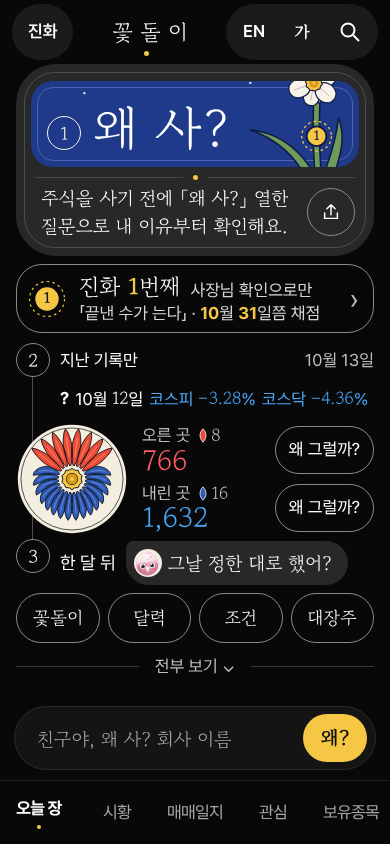
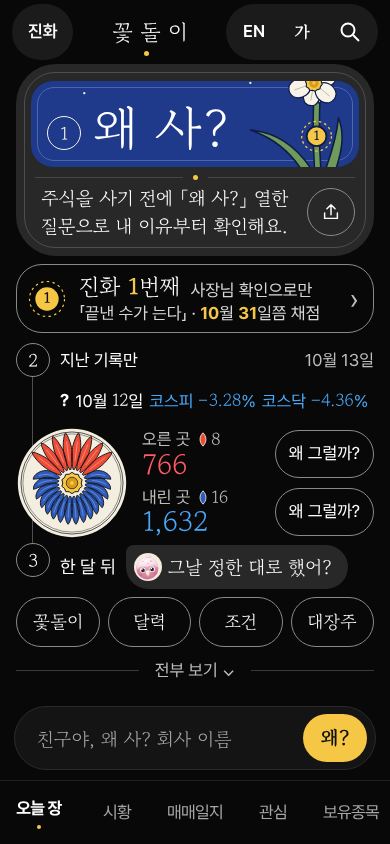
자연의 섭리 석 장 — 그리는 중 사본
Claude-Session: https://claude.ai/code/session_01NCpyR4ELc71hqitZJpUS2Z

Changed region(s): [[0.0308, 0.4621, 0.9538, 0.8009]]

diff --git a/docs/design/kakao-2026-10-19/mock/n3.html b/docs/design/kakao-2026-10-19/mock/n3.html
@@ -300,6 +300,8 @@ button,input{font:inherit;color:inherit;background:none;border:0}
 .gdr{margin-top:6px}
 .gdr a{min-height:48px}
 .all summary{min-height:48px}
+
+.river{column-gap:4px}
 </style>
 </head>
 <body>
@@ -317,7 +319,7 @@ button,input{font:inherit;color:inherit;background:none;border:0}
   <section class="plate" data-w="ess">
     <div class="frame">
       <div class="head">
-        <svg class="print" viewBox="0 0 320 112" preserveAspectRatio="xMaxYMax slice" aria-hidden="true"><defs>
+        <svg class="print" viewBox="0 0 320 112" preserveAspectRatio="xMaxYMax meet" aria-hidden="true"><defs>
 <g id="g3-bloom"><g fill="#F7F3E8" stroke="#0F1B45" stroke-width="1.3" stroke-linejoin="round"><path d="M0 -4 C 8.6 -5.6 11.6 -16 5.6 -23 Q 0 -26.8 -5.6 -23 C -11.6 -16 -8.6 -5.6 0 -4 Z" transform="rotate(60)"/><path d="M0 -4 C 8.6 -5.6 11.6 -16 5.6 -23 Q 0 -26.8 -5.6 -23 C -11.6 -16 -8.6 -5.6 0 -4 Z" transform="rotate(180)"/><path d="M0 -4 C 8.6 -5.6 11.6 -16 5.6 -23 Q 0 -26.8 -5.6 -23 C -11.6 -16 -8.6 -5.6 0 -4 Z" transform="rotate(300)"/><path d="M0 -4 C 10 -6 13.5 -18 6.5 -26 Q 0 -30.5 -6.5 -26 C -13.5 -18 -10 -6 0 -4 Z" transform="rotate(0)"/><path d="M0 -4 C 10 -6 13.5 -18 6.5 -26 Q 0 -30.5 -6.5 -26 C -13.5 -18 -10 -6 0 -4 Z" transform="rotate(120)"/><path d="M0 -4 C 10 -6 13.5 -18 6.5 -26 Q 0 -30.5 -6.5 -26 C -13.5 -18 -10 -6 0 -4 Z" transform="rotate(240)"/></g><g stroke="#BDB49C" stroke-width=".9" stroke-linecap="round"><path d="M0 -9 L0 -22" transform="rotate(0)"/><path d="M0 -9 L0 -19" transform="rotate(60)"/><path d="M0 -9 L0 -22" transform="rotate(120)"/><path d="M0 -9 L0 -19" transform="rotate(180)"/><path d="M0 -9 L0 -22" transform="rotate(240)"/><path d="M0 -9 L0 -19" transform="rotate(300)"/></g><path d="M9.20 0.00 L7.70 2.50 L7.44 5.41 L4.76 6.55 L2.84 8.75 L0.00 8.10 L-2.84 8.75 L-4.76 6.55 L-7.44 5.41 L-7.70 2.50 L-9.20 0.00 L-7.70 -2.50 L-7.44 -5.41 L-4.76 -6.55 L-2.84 -8.75 L-0.00 -8.10 L2.84 -8.75 L4.76 -6.55 L7.44 -5.41 L7.70 -2.50Z" fill="#F6C744" stroke="#0F1B45" stroke-width="1.2" stroke-linejoin="round"/><circle r="5.2" fill="#D99A1C"/><circle r="1.8" fill="#F6C744"/></g>
 <g id="g3-side"><g transform="scale(.56 1)"><g fill="#F7F3E8" stroke="#0F1B45" stroke-width="1.3" stroke-linejoin="round"><path d="M0 -4 C 8.6 -5.6 11.6 -16 5.6 -23 Q 0 -26.8 -5.6 -23 C -11.6 -16 -8.6 -5.6 0 -4 Z" transform="rotate(60)"/><path d="M0 -4 C 8.6 -5.6 11.6 -16 5.6 -23 Q 0 -26.8 -5.6 -23 C -11.6 -16 -8.6 -5.6 0 -4 Z" transform="rotate(180)"/><path d="M0 -4 C 8.6 -5.6 11.6 -16 5.6 -23 Q 0 -26.8 -5.6 -23 C -11.6 -16 -8.6 -5.6 0 -4 Z" transform="rotate(300)"/><path d="M0 -4 C 10 -6 13.5 -18 6.5 -26 Q 0 -30.5 -6.5 -26 C -13.5 -18 -10 -6 0 -4 Z" transform="rotate(0)"/><path d="M0 -4 C 10 -6 13.5 -18 6.5 -26 Q 0 -30.5 -6.5 -26 C -13.5 -18 -10 -6 0 -4 Z" transform="rotate(120)"/><path d="M0 -4 C 10 -6 13.5 -18 6.5 -26 Q 0 -30.5 -6.5 -26 C -13.5 -18 -10 -6 0 -4 Z" transform="rotate(240)"/></g><g stroke="#BDB49C" stroke-width=".9" stroke-linecap="round"><path d="M0 -9 L0 -22" transform="rotate(0)"/><path d="M0 -9 L0 -19" transform="rotate(60)"/><path d="M0 -9 L0 -22" transform="rotate(120)"/><path d="M0 -9 L0 -19" transform="rotate(180)"/><path d="M0 -9 L0 -22" transform="rotate(240)"/><path d="M0 -9 L0 -19" transform="rotate(300)"/></g></g><path d="M-1 -5.6 L-13 -8.6 Q-15.4 -9.4 -16 -7 Q-17.6 0 -16 7 Q-15.4 9.4 -13 8.6 L-1 5.6 Z" fill="#F6C744" stroke="#0F1B45" stroke-width="1.2" stroke-linejoin="round"/><ellipse cx="-15.8" cy="0" rx="2.4" ry="8.4" fill="#D99A1C" stroke="#0F1B45" stroke-width="1.1"/></g>
 </defs>
@@ -355,7 +357,8 @@ button,input{font:inherit;color:inherit;background:none;border:0}
           <svg class="streams" viewBox="0 0 120 116" preserveAspectRatio="none" aria-hidden="true">
 <!-- 달 하나 · 별 둘 — 고흐의 밤(크림 평면) -->
 <path d="M14 6 A 9 9 0 1 0 24 20 A 7 7 0 1 1 14 6 Z" fill="#EFE6CF"/>
-<path d="M40 8h.01M33 26h.01" stroke="#EFE6CF" stroke-width="2.4" stroke-linecap="round"/>
+<path d="M40 8h.01M33 26h.01M58 16h.01" stroke="#EFE6CF" stroke-width="2.4" stroke-linecap="round"/>
+<path d="M30 14 C 30 8 40 6 44 12 C 48 18 40 22 37 18 C 35 15 39 13 40 15 M50 26 C 60 20 72 22 80 16" fill="none" stroke="#C9BFA6" stroke-width="1" stroke-linecap="round"/>
 <!-- 갈래 뒤 섬 — 두 줄기 사이 땅(풀빛 평면 · 크림 윤곽 · 갈대 셋) -->
 <path d="M64 53 C 78 47 98 37 124 37 L 124 72 C 100 72 80 62 64 53 Z" fill="#6E9B5A" stroke="#EFE6CF" stroke-width="1.2" stroke-linejoin="round"/>
 <path d="M94 68 C 95 60 97 54 101 49 M102 69 C 102 61 104 55 108 51 M110 70 C 111 63 113 58 117 54" fill="none" stroke="#24391F" stroke-width="1.5" stroke-linecap="round"/>

diff --git a/docs/design/kakao-2026-10-19/mock/n2.why.md b/docs/design/kakao-2026-10-19/mock/n2.why.md
@@ -1,0 +1,19 @@
+# n2 · 「꽃잎 둘레」
+
+한 줄 생각: 장사 막대를 걷고 한지 위 목판 꽃 한 송이를 둔다. 꽃잎 24장을 곳 수 몫대로 나눈다. 오른 곳은 8장이 위로 펼치고, 내린 곳은 16장이 고개를 숙인다. 바탕은 e3 자라는 꽃(판화 수선화 · 진화 1번째) 그대로, 그 밑에 e1 하는 일 셋(① 왜 사? ② 지난 기록만 ③ 한 달 뒤)을 가는 세로선 하나로 담았다.
+
+## 왜? 다섯
+1. 왜 막대를 꽃으로 바꿨나? 막대는 가게 판 같다. 꽃잎은 저절로 몫을 나눈다. 위로 핀 잎과 숙인 잎이 한눈에 셈이 된다.
+2. 왜 24장인가? 766 : 1,632 은 약 32 : 68 이다. 24장이면 7.66장이 되어 반올림 8장이다. 숫자 곁 작은 잎 그림에 8 · 16 을 적어 반올림을 밝혔다. 그림 설명에도 같은 셈을 적었다.
+3. 왜 목판 한지 원판인가? 머리 판화 수선화와 같은 손맛이다. 먹 윤곽선만 쓰고 그림자 · 그러데이션 · 흐림은 없다. 같은 색 잎은 길 하나로 묶었다.
+4. 왜 꽃을 세로선 위에 걸었나? ② 지난 기록만 이 바로 이 꽃이다. 선이 꽃 뒤로 지나 ③ 한 달 뒤로 이어진다. 숫자와 「왜 그럴까?」는 잎 곁에 그대로 둔다.
+5. 본질: 사기 전에 한 번 멈추게 하는 곳. 숙인 잎 16장 앞에서 「왜 그럴까?」를 한 번 누르게 한다.
+
+## 그럴까?
+꽃이 예뻐서 내린 날도 좋게 보이지 않을까? 그래서 숙인 잎을 남빛으로 무겁게 두고, 숫자 1,632 를 꽃보다 크게 곁에 적었다.
+
+## 그대로 둔 것 · 옮긴 것
+본질 세 줄 · 숫자 · 날짜 · 이름 꽃돌이 · 표시(data-w · data-ess · data-say · data-num · data-fact · data-path · jhBtn) · 아래 단추 다섯은 그대로다. 「더 보기」에 있던 본질 2 · 3 줄과 「0번 멈춤 · 0번 약속」은 「전부 보기」 안으로 옮겼다. 꽃돌이 말은 ③ 「그날 정한 대로 했어?」 하나만 남겼다. 「코스피가 내린 날인데 살까?」는 글자 한도 때문에 뺐다.
+
+## 검사
+check_white --mock: 통과 22 · 실패 2(흰 바탕 · 글 #16181D — 어두운 카톡 판이라 걸려도 되는 두 줄뿐) · 글자 104자(한도 105) · 320 × 568 옆 넘침 0.
